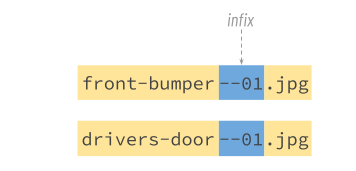
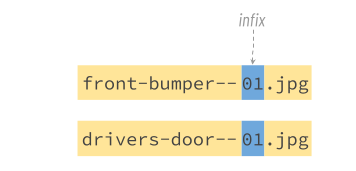
improve infix description

diff --git a/README.md b/README.md
@@ -60,13 +60,15 @@ Like sidecars, shared stems are easy and intuitive, but their expressiveness is 
 
 Another simple CFA convention is the __infix__ pattern. In this pattern, files that bind the same CFA share a common 1- or 2-digit infix in their names. The infix cannot begin a name. It must be preceded by two hyphens and followed by a non-word character.
 
-Suppose a police photographer wants to document an accident involving several vehicles, and each will be photographed from multiple angles and lighting conditions. She might bind photos for vehicle 1 using a common infix: `front-bumper--01.jpg` and `drivers-door--01.jpg`, respectively.
+Suppose a police photographer is documenting an accident that involved several vehicles, and each will be photographed from multiple angles and lighting conditions. She might associate photos for vehicle 1 using a common infix: `front-bumper--01.jpg` and `drivers-door--01.jpg`, respectively.
 
 ![infix CFA](infix-cfa.png)
 
-Infixes are compared numerically, not textually; this means an infix of `01` and an infix of `1` are equivalent. Normally, infixes are directionless; however, there are advanced options that can change this.
+Infixes are compared numerically, not textually; this means an infix of `01` and an infix of `1` are equivalent.
 
-A file may bind more than one infix in its name: `tangled-bumpers--01--04.jpg` is a member of groups using both the `01` and `04` infixes, and might show parts of vehicles 1 and 4 in our example.
+A file may bind more than one infix in its name: `tangled-bumpers--01--03.jpg` is a member of groups using both the `01` and `03` infixes, and might show both vehicles 1 and 3 in our example.
+
+Normally, infixes are directionless; however, advanced options can change this.
 
 ### Metadata
 
